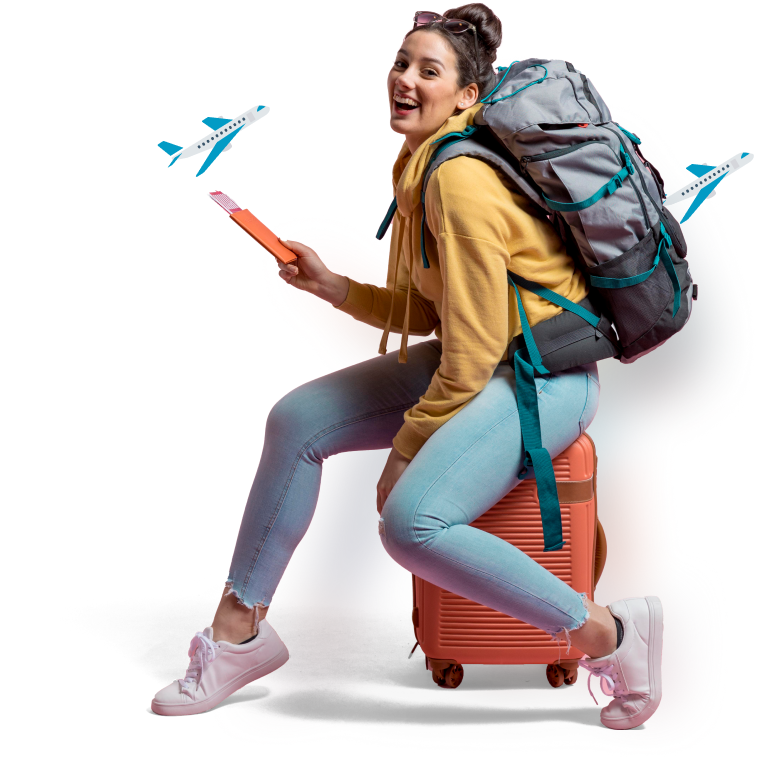
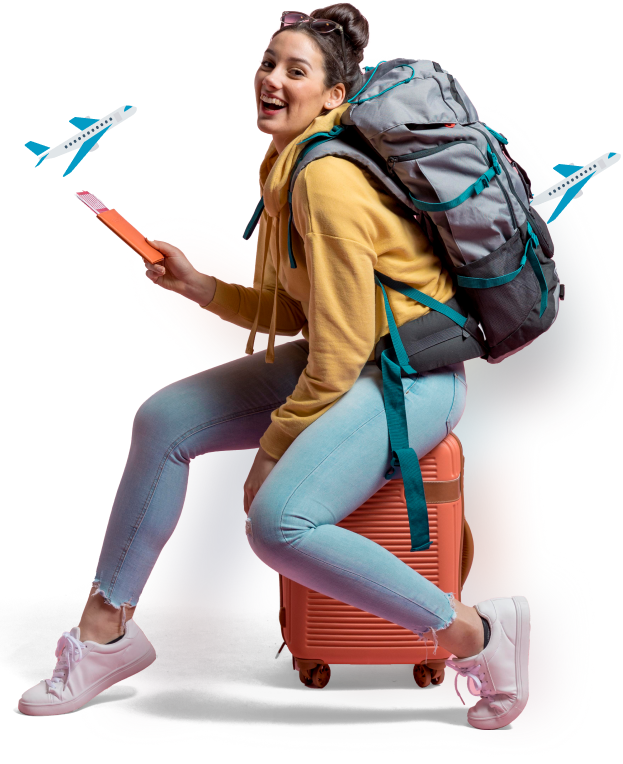
fix hero styling

diff --git a/src/app/sections/hero/Main.js b/src/app/sections/hero/Main.js
@@ -3,34 +3,37 @@ import React from 'react'
 export default function Main() {
   return (
     <div className="min-h-screen flex items-center justify-center ">
-      <div className="container mx-auto px-8 flex flex-col md:flex-row items-center">
-        <div className="flex flex-col items-start max-w-lg md:max-w-xl md:mr-12">
+      <div className="container flex flex-col md:flex-row items-center">
+
+        <div className="flex flex-col items-start w-3/4">
           <tag className="text-[20px] text-[#DF6951] uppercase font-semibold mb-8">
             Best Destinations around the world
           </tag>
-          <h1 className="text-[93px] text-[#181E4B] font-volkhov font-black leading-extra-loose mb-8">
+          <h1 className="text-[96px] text-[#181E4B] font-volkhov font-black leading-extra-loose mb-8 z-10">
             Travel, enjoy and live a new and full life
           </h1>
 
-          <p className="text-lg mb-6">
+          <img src='/assest/hero/Decore.png' className='absolute top-[19rem] right-[30rem] opacity-100' />
+
+          <p className="text-[17px] text-[#5E6282] w-[480px] tracking-wider font-medium mb-6">
             Built Wicket longer admire do barton vanity itself do it. Preferred
             to sportsmen it engrossed listening. Park gate sell they west hard
             for the.
           </p>
           <div className="flex items-center">
-            <button className="bg-orange-500 hover:bg-orange-600 text-white px-6 py-2 rounded-lg mr-4">
+            <button className="text-white hover:bg-orange-600 text-[18px] bg-[#F1A501] px-6 py-4 rounded-lg mr-4">
               Find out more
             </button>
-            <button className="bg-transparent border-2 border-white hover:bg-white hover:text-gray-800 text-white px-6 py-2 rounded-lg">
-              Play Demo
+            <button className='mt-2'>
+              <img src='/assest/hero/Play Demo.png' />
             </button>
           </div>
         </div>
-        <div className="md:mt-0">
+        <div className='mt-4'>
           <img
             src="/assest/hero/Image.png"
             alt="Travel"
-            className="w-400 h-auto"
+            className='w-[800px] h-[680px]'
           />
         </div>
       </div>

diff --git a/src/app/sections/hero/Header.js b/src/app/sections/hero/Header.js
@@ -6,7 +6,7 @@ const Header = () => {
   const [isOpen, setIsOpen] = useState(false);
 
   return (
-    <header className="max-w-screen-xl mx-auto px-8 pt-12 flex justify-between items-center">
+    <header className="max-w-screen pt-12 flex justify-between items-center">
       {/* Logo Section */}
       <section>
         <div className="flex items-center space-x-2">
@@ -16,7 +16,7 @@ const Header = () => {
 
 
       {/* Navigation Links */}
-      <section className='flex justify-between items-center gap-16'>
+      <section className='flex justify-between items-center gap-10'>
         <nav className="hidden md:flex space-x-16">
           <a href="#" className="text-[18px] text-[#212832] font-Google Sans font-medium">Destinations</a>
           <a href="#" className="text-[18px] text-[#212832] font-Google Sans font-medium">Hotels</a>

diff --git a/src/app/sections/hero/Hero.js b/src/app/sections/hero/Hero.js
@@ -3,12 +3,12 @@ import Main from "./Main";
 
 export default function Hero() {
   return (
-      <section className="relative w-full h-full">
+      <section className="relative w-full h-full pr-20">
           {/* Background Image */}
           <img
               src="/assest/decore/Decore.png"
               alt=""
-              className="absolute top-[0px] right-[0px] w-[766.31px] h-[872.58px] opacity-100"
+              className="absolute top-[0px] right-[0px] w-[620px] h-[640px] opacity-100"
           />
           
           {/* Header and Main */}

diff --git a/tailwind.config.js b/tailwind.config.js
@@ -16,7 +16,7 @@ module.exports = {
         poppins: ['Poppins']
       },
       lineHeight: {
-        'extra-loose': '5.5rem',
+        'extra-loose': '5.4rem',
         'large': '4rem'
       },
       borderRadius: {

diff --git a/src/app/page.js b/src/app/page.js
@@ -9,7 +9,7 @@ import Footer from "./sections/footer/Footer";
 
 export default function Home() {
   return (
-    <div>
+    <div className="pl-32">
       <Hero />
       <ServicesSection />
       <Destinations />
